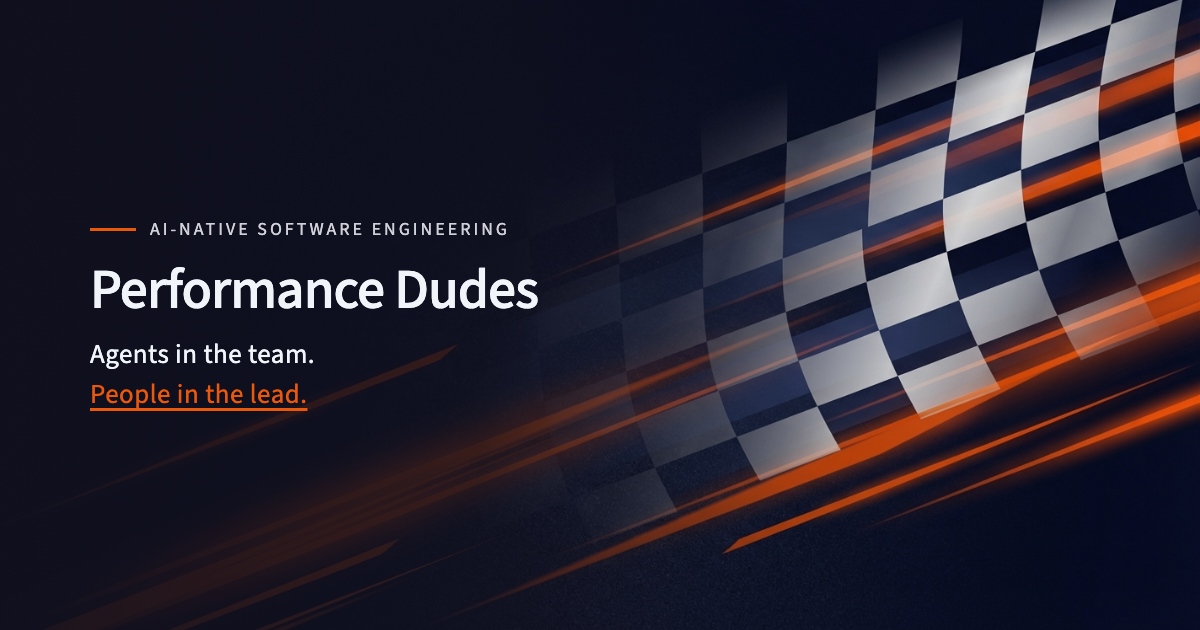
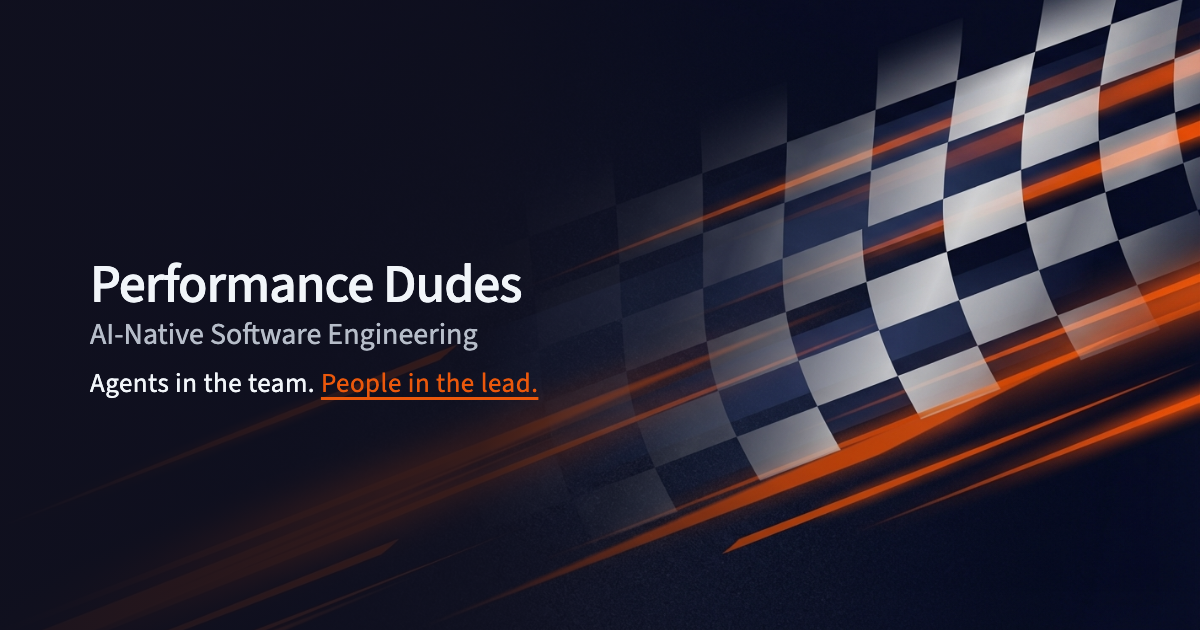
style(og): kompakte Variante an Original-Layout angleichen
Die kompakte OG-Variante soll das ursprüngliche Marken-Bild möglichst genau
treffen. Per Overlay-Diff (Original + Render je 50% übereinander, Textzeilen-
Positionen mit einem Pixel-Skript vermessen) die Anordnung nachgebaut:

- Titel oben, "AI-Native Software Engineering" als schlichter grauer Untertitel
  direkt darunter (statt Kapitälchen-Eyebrow mit orange Strich).
- Slogan einzeilig ("Agents in the team. People in the lead."), Beat
  "People in the lead." orange + unterstrichen.
- Block oben-links statt vertikal zentriert; Titelgröße und Zeilenabstände so
  justiert, dass Titel (2px) und Untertitel (4px) fast deckungsgleich mit dem
  Original sitzen.

Nur die kompakte Variante; die große bleibt im plakativen Hero-Stil (Eyebrow mit
Strich oben, zweizeiliger Slogan).

Claude-Session: https://claude.ai/code/session_0145i5EJ38RYKJC6xyr5v5v8

Changed region(s): [[0.0617, 0.4222, 0.4625, 0.6635], [0.0925, 0.3317, 0.4317, 0.3921]]

diff --git a/scripts/og/og-template.html b/scripts/og/og-template.html
@@ -54,7 +54,7 @@
       body.compact {
         font-family: "Source Sans 3", -apple-system, BlinkMacSystemFont, sans-serif;
         --fs-eyebrow: 18px;
-        --fs-title: 56px;
+        --fs-title: 54px;
         --fs-tagline: 27px;
         --ls-title: -1px;
         --mb-eyebrow: 20px;
@@ -88,7 +88,7 @@
         padding: 0 90px;
       }
 
-      .content { position: relative; z-index: 2; max-width: 1000px; }
+      .content { position: relative; z-index: 2; max-width: 1000px; display: flex; flex-direction: column; }
 
       .eyebrow {
         display: flex; align-items: center; gap: 14px;
@@ -116,8 +116,22 @@
       }
       /* Den Lead-in ("Agents in the team.") als eigene Zeile setzen, damit der
          betonte Beat darunter im dunklen linken Bereich landet statt in die helle
-         Flag zu laufen. Gilt für beide Größen. */
+         Flag zu laufen (nur big — compact setzt ihn unten wieder inline). */
       .tagline .lead-in { display: block; margin-bottom: 4px; }
+
+      /* ── Compact-Layout: dem ursprünglichen OG-Bild nachempfunden ──
+         Titel oben, „AI-Native Software Engineering" als schlichter grauer
+         Untertitel direkt darunter (kein Kapitälchen-Eyebrow mit orange Strich),
+         Slogan einzeilig, der ganze Block oben-links statt vertikal zentriert. */
+      body.compact { justify-content: flex-start; padding-top: 258px; }
+      body.compact .title { order: 1; margin-bottom: 0; }
+      body.compact .eyebrow {
+        order: 2; text-transform: none; letter-spacing: normal; gap: 0;
+        font-size: 30px; color: #b6bdc9; margin-bottom: 10px; margin-top: 0;
+      }
+      body.compact .eyebrow .dash { display: none; }
+      body.compact .tagline { order: 3; }
+      body.compact .tagline .lead-in { display: inline; margin-bottom: 0; }
     </style>
   </head>
   <body>
